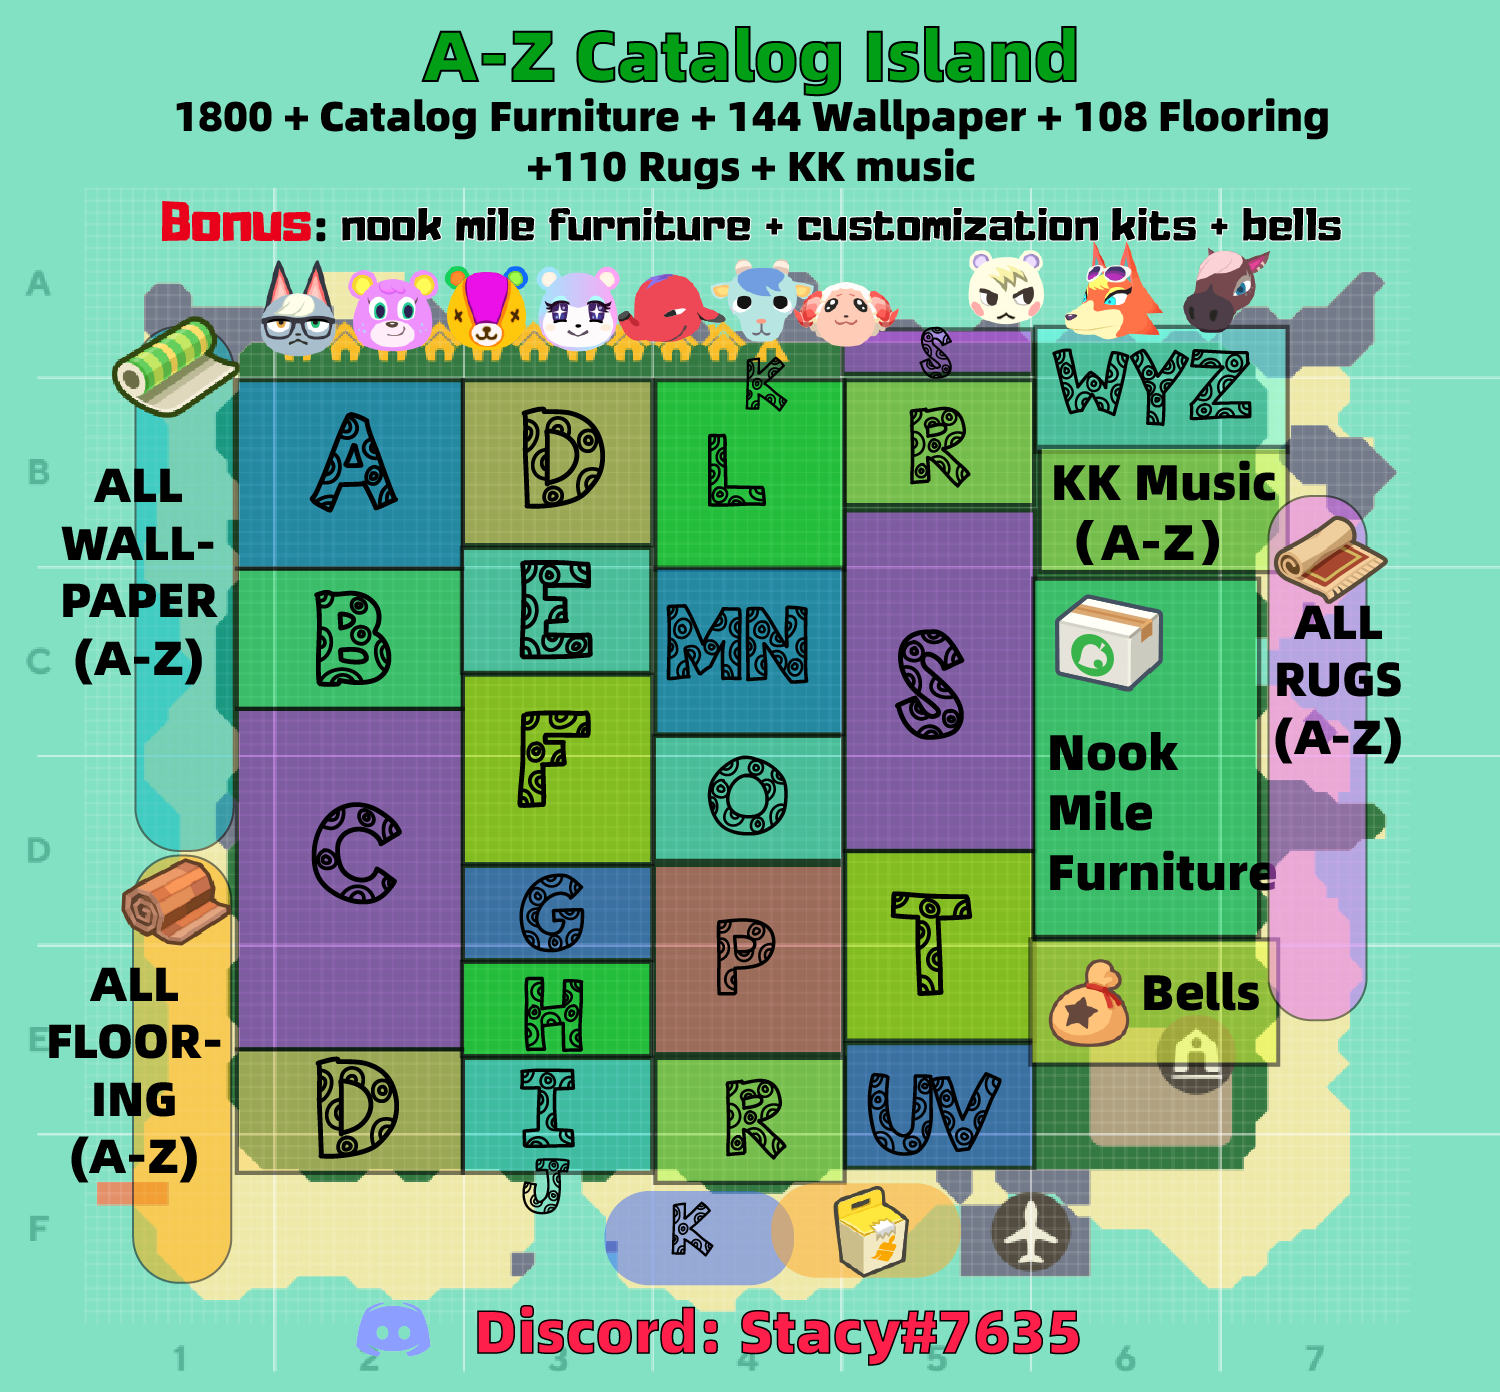
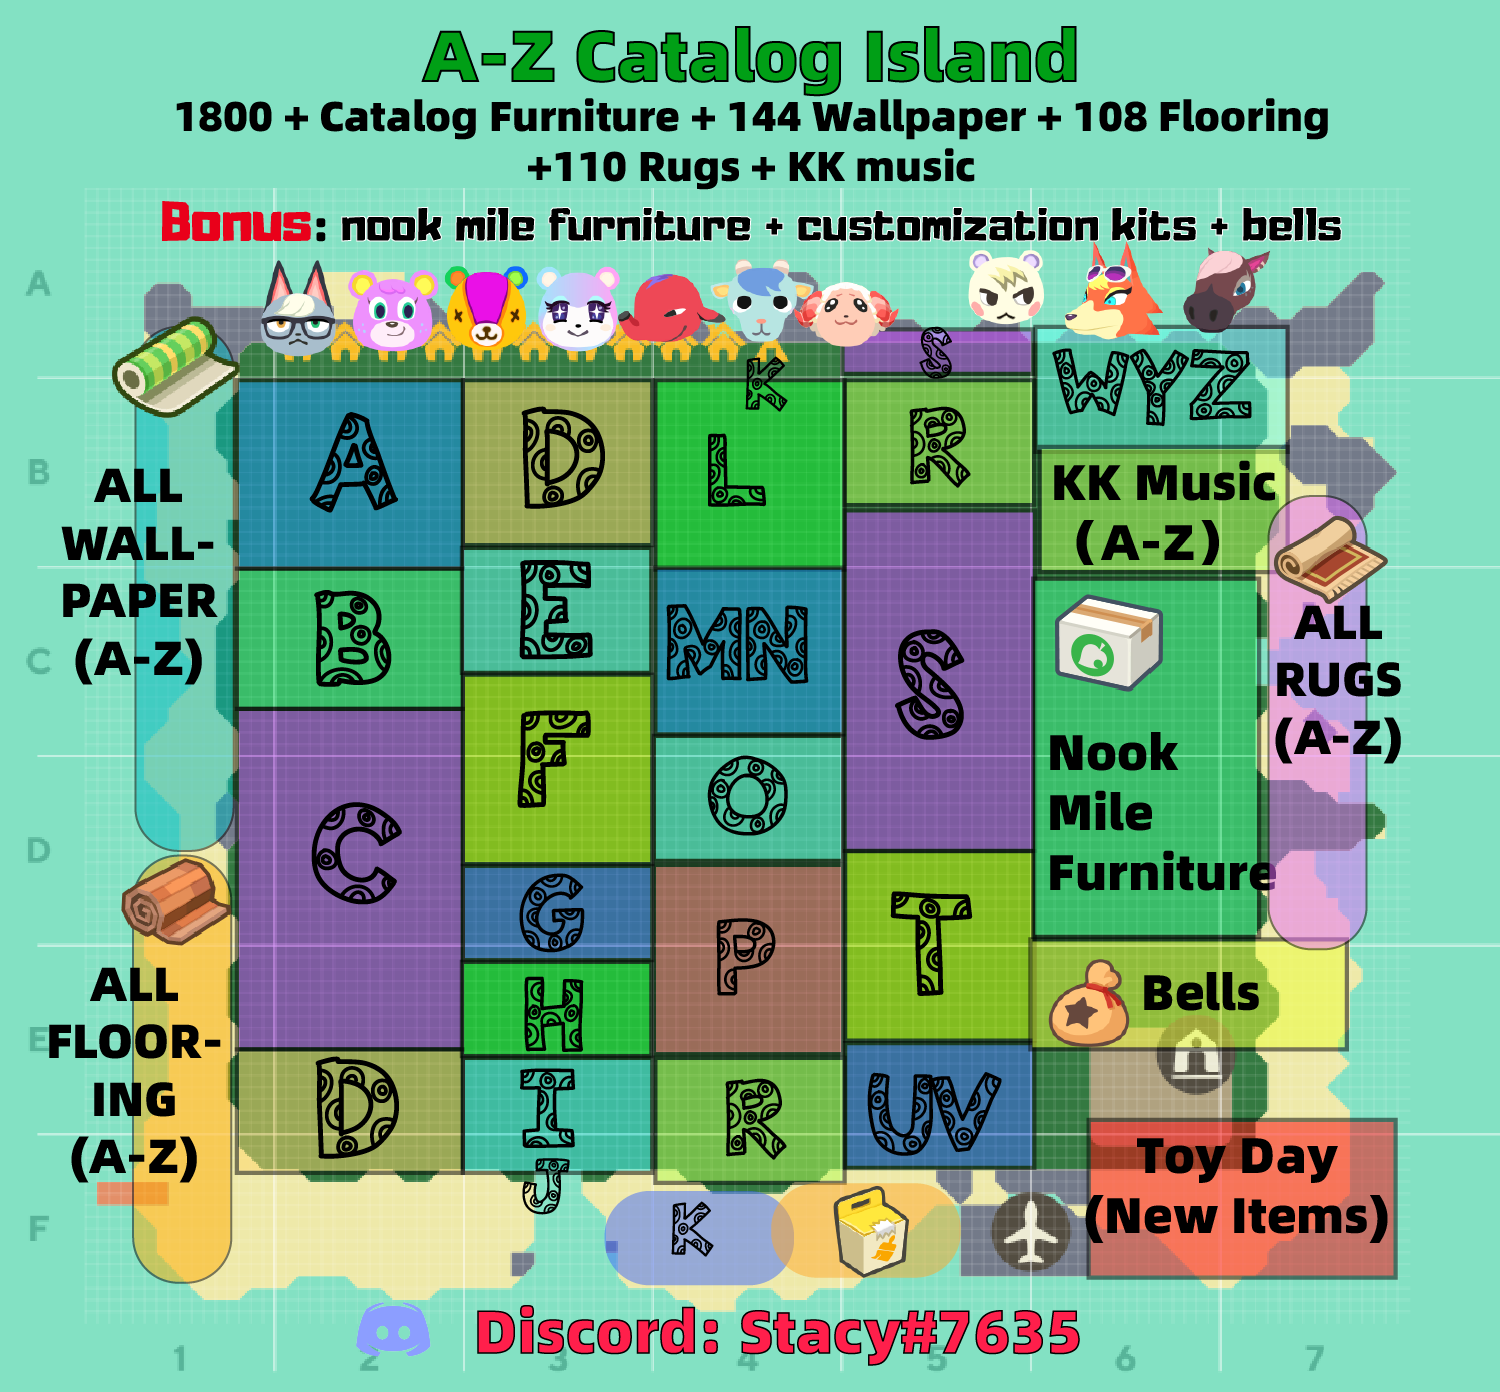
1

Changed region(s): [[0.7053, 0.8032, 0.9507, 0.9267], [0.6747, 0.6487, 0.92, 0.7723]]

diff --git a/GHCAT/cat.html b/GHCAT/cat.html
@@ -73,9 +73,9 @@
 <div class="container" style="padding: 40px 0 40px 0">
 <div class="col-12 col-md-12">
 <div typeof="Product" vocab="https://schema.org/">
-<p><font face="Arial"><span property="description">	After you placed the order, please contact me for your preferred time to come. (Especially busy on weekends). Usually respond quickly, I am in US Eastern Time (New York Time Zone), typically online between 09:00 AM - 01:00 AM EST.</span></font></p>
-
+<p><font face="Arial"><span property="description">	After you placed the order, please contact me for your preferred time to come. (Especially busy on weekends). Of course, anytime you can ask me for the next availability, but please note that only paid customers have the priority to take the next time slot, thus availabilities may change anytime. Usually respond quickly, I am in US Eastern Time (New York Time Zone), typically online between 09:00 AM - 11:59 PM EST.</span></font></p>
 <p><font face="Arial"><span property="description">	Although your time starts when your first flight landed, kindly ask everyone to come quickly when you got the Dodo code and leave on time. Otherwise, there are basically no rules. Just feel free to loot anything during your time slot. You can take/drop anything, leaving the island the way you like and don't worry about messing things up. This service is intended for one player only, thus you won't be interrupted during your time. </span></font></p>
+
 
 
 <p><font face="Arial" style="color: #353535"><span property="description">
@@ -102,6 +102,7 @@
 	
 	<div class="w3-content w3-display-container">
     <img class="mySlides" src="/GHCAT/image/map.png" style="width:100%">
+	<img class="mySlides" src="/GHCAT/image/toy.jpg" style="width:100%">
     <img class="mySlides" src="/GHCAT/image/1.jpg" style="width:100%">
     <img class="mySlides" src="/GHCAT/image/2.jpg" style="width:100%">
     <img class="mySlides" src="/GHCAT/image/3.jpg" style="width:100%">
@@ -156,15 +157,11 @@
 
 
 <ul style="color: #273C2C; line-height: 25px; font-size: 16px; margin-top: 30px">
-	<!--new 
-	<li><font face="Arial" style="color: #353535"><i>Newly Updated:</i>
+		<li><font face="Arial" style="color: #353535"><i>Newly Updated:</i>
 		<ul>
-			<li><b>Christmas Set:</b>Added Christmas furniture as well as their DIY recipes </li>
-			<li><b>Plant Set:</b>All the decorative plants in the game</li>
-			<li><b>Fruit Set:</b>Includes all fruit series furniture/clothing/umbrella</li>
+			<li><b>Toy Day(Christmas) Set:</b>Added 57 new catalogable toy day furniture(9 types with all colors), and also 6 Christmas ctalogabale clothing
 		</ul>
 		</font></li>
-		-->
 	<li><font face="Arial" style="color: #353535"><b>A-Z Furniture:</b>The main furniture section, are all catalog-able (will explain catalog later), and in ALPHABETIC order. Each furniture has all color variations with corresponding display.
 	</font></li>
 	
